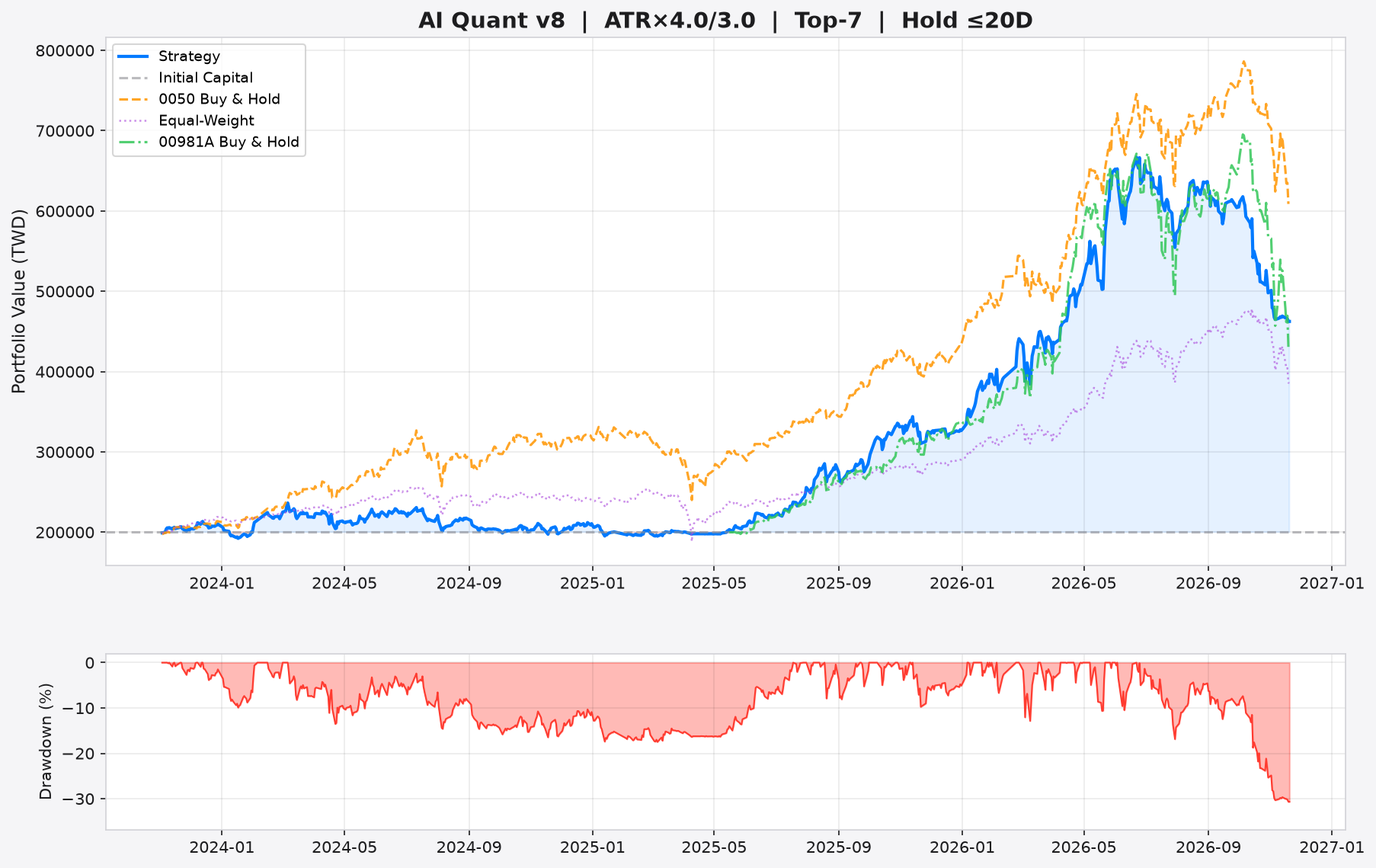
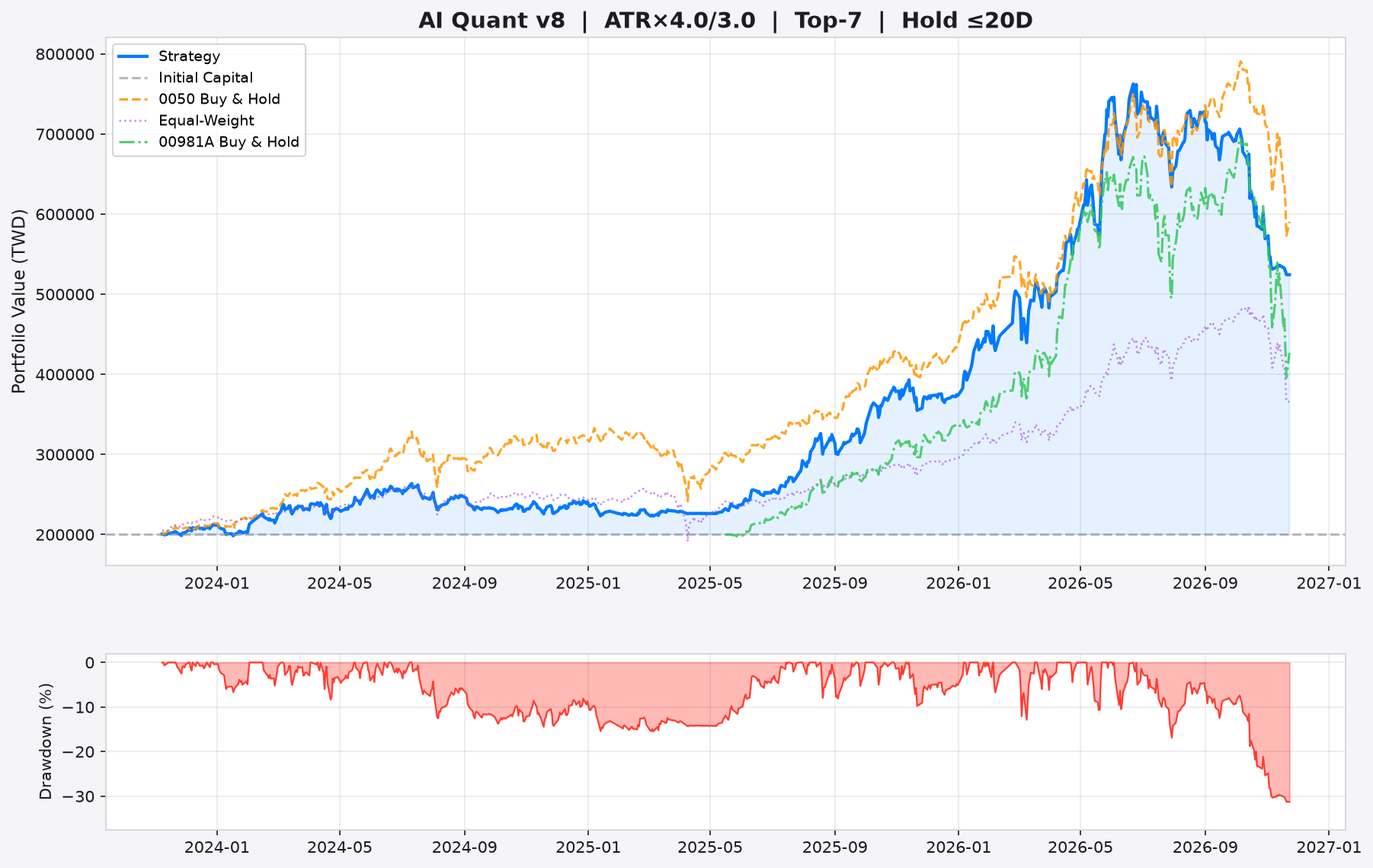
📊 AI Report v8.5 + Paper Trading (2026-11-23)

diff --git a/stock_report.html b/stock_report.html
@@ -3,7 +3,7 @@
 <head>
     <meta charset="utf-8">
     <meta name="viewport" content="width=device-width, initial-scale=1.0">
-    <title>AI 台股量化交易 v8.5 — 2026-11-20</title>
+    <title>AI 台股量化交易 v8.5 — 2026-11-23</title>
     <meta name="description" content="AI 驅動的台股量化交易系統 v8.5，完整風險報告、Benchmark 對比、OCO 智慧掛單建議">
     <script>
         (function() {
@@ -292,7 +292,7 @@
 
     <h1>🎯 AI 台股量化交易 v8.5</h1>
     <p class="subtitle">
-        Event-Driven System &nbsp;|&nbsp; 報表日期: 2026-11-20 &nbsp;|&nbsp;
+        Event-Driven System &nbsp;|&nbsp; 報表日期: 2026-11-23 &nbsp;|&nbsp;
         <span class="config-badge">🛡 ATR×4.0/3.0</span>
         <span class="config-badge">🎯 Top-7</span>
         <span class="config-badge">⏱ 最長 20 天</span>
@@ -303,47 +303,47 @@
     <div class="stats">
         <div class="stat-card">
             <div class="label">策略總報酬率</div>
-            <div class="value" style="color:#00ff00;">+131.2%</div>
+            <div class="value" style="color:#00ff00;">+162.2%</div>
         </div>
         <div class="stat-card">
             <div class="label">年化報酬率</div>
-            <div class="value" style="color:#00ff00;">+33.1%</div>
+            <div class="value" style="color:#00ff00;">+39.0%</div>
         </div>
         <div class="stat-card">
             <div class="label">年化波動率</div>
-            <div class="value">27.3%</div>
+            <div class="value">27.2%</div>
         </div>
         <div class="stat-card risk">
             <div class="label">Sharpe Ratio</div>
-            <div class="value" style="color:#00ff00;">1.19</div>
+            <div class="value" style="color:#00ff00;">1.34</div>
         </div>
         <div class="stat-card risk">
             <div class="label">Sortino Ratio</div>
-            <div class="value">1.60</div>
+            <div class="value">1.90</div>
         </div>
         <div class="stat-card risk">
             <div class="label">最大回撤</div>
-            <div class="value" style="color:#ff4444;">-30.7%</div>
+            <div class="value" style="color:#ff4444;">-31.2%</div>
         </div>
         <div class="stat-card risk">
             <div class="label">Calmar Ratio</div>
-            <div class="value">1.08</div>
+            <div class="value">1.25</div>
         </div>
         <div class="stat-card">
             <div class="label">完成交易數</div>
-            <div class="value">567</div>
+            <div class="value">564</div>
         </div>
         <div class="stat-card">
             <div class="label">勝率</div>
-            <div class="value" style="color:#00ff00;">51.9%</div>
+            <div class="value" style="color:#00ff00;">51.6%</div>
         </div>
         <div class="stat-card">
             <div class="label">Profit Factor</div>
-            <div class="value">1.40</div>
+            <div class="value">1.44</div>
         </div>
         <div class="stat-card">
             <div class="label">平均報酬/筆</div>
-            <div class="value">+1.93%</div>
+            <div class="value">+2.07%</div>
         </div>
         <div class="stat-card">
             <div class="label">平均持有天數</div>
@@ -370,17 +370,14 @@
             </tr>
         </thead>
         <tbody>
-<tr><td>2618</td><td>3.98</td><td>46.4</td><td><span style="color:#00ff00; font-weight:bold;">🟢 建議買進 #1</span></td><td><b>停利:</b> <span style="color:#00ff00">53.4</span> (+15.0%) <br><b>停損:</b> <span style="color:#ff4444">42.7</span> (-8.0%) <br><b>最晚出場:</b> 2026-12-18</td><td><span style="font-size:0.72rem; color:#888;">歷史 <b>5</b>筆 | 勝率 <b style="color:#ff4444">40%</b> | 均報酬 <b style="color:#ff4444">-2.0%</b></span></td><td><span style="font-size:0.78rem;">🟡 小買<br><span style="color:#ffab00; font-weight:bold;">+1.1%</span></span></td><td><span style="font-size:0.78rem;">⚪ 中性</span></td></tr>
-<tr><td>2412</td><td>3.95</td><td>166.0</td><td><span style="color:#00ff00; font-weight:bold;">🟢 建議買進 #2</span></td><td><b>停利:</b> <span style="color:#00ff00">190.9</span> (+15.0%) <br><b>停損:</b> <span style="color:#ff4444">152.7</span> (-8.0%) <br><b>最晚出場:</b> 2026-12-18</td><td><span style="font-size:0.72rem; color:#888;">歷史 <b>3</b>筆 | 勝率 <b style="color:#00ff00">100%</b> | 均報酬 <b style="color:#00ff00">+3.1%</b></span></td><td><span style="font-size:0.78rem;">🟡 小買<br><span style="color:#ffab00; font-weight:bold;">+1.1%</span></span></td><td><span style="font-size:0.78rem;">⚪ 中性</span></td></tr>
-<tr><td>2891</td><td>3.75</td><td>73.1</td><td><span style="color:#00ff00; font-weight:bold;">🟢 建議買進 #3</span></td><td><b>停利:</b> <span style="color:#00ff00">84.1</span> (+15.0%) <br><b>停損:</b> <span style="color:#ff4444">67.3</span> (-8.0%) <br><b>最晚出場:</b> 2026-12-18</td><td><span style="font-size:0.72rem; color:#888;">歷史 <b>4</b>筆 | 勝率 <b style="color:#00ff00">75%</b> | 均報酬 <b style="color:#ff4444">-0.2%</b></span></td><td><span style="font-size:0.78rem;">⚪ 無資料<br><span style="color:#888; font-weight:bold;">+0.0%</span></span></td><td><span style="font-size:0.78rem;">⚪ 中性</span></td></tr>
-<tr><td>2886</td><td>3.72</td><td>53.4</td><td><span style="color:#00ff00; font-weight:bold;">🟢 建議買進 #4</span></td><td><b>停利:</b> <span style="color:#00ff00">61.4</span> (+15.0%) <br><b>停損:</b> <span style="color:#ff4444">49.1</span> (-8.0%) <br><b>最晚出場:</b> 2026-12-18</td><td><span style="font-size:0.72rem; color:#555;">歷史資料不足</span></td><td><span style="font-size:0.78rem;">⚪ 無資料<br><span style="color:#888; font-weight:bold;">+0.0%</span></span></td><td><span style="font-size:0.78rem;">⚪ 中性</span></td></tr>
-<tr><td>3045</td><td>3.63</td><td>127.5</td><td><span style="color:#00ff00; font-weight:bold;">🟢 建議買進 #5</span></td><td><b>停利:</b> <span style="color:#00ff00">146.6</span> (+15.0%) <br><b>停損:</b> <span style="color:#ff4444">117.3</span> (-8.0%) <br><b>最晚出場:</b> 2026-12-18</td><td><span style="font-size:0.72rem; color:#888;">歷史 <b>3</b>筆 | 勝率 <b style="color:#ff4444">33%</b> | 均報酬 <b style="color:#ff4444">-0.1%</b></span></td><td><span style="font-size:0.78rem;">🟡 小買<br><span style="color:#ffab00; font-weight:bold;">+0.7%</span></span></td><td><span style="font-size:0.78rem;">⚪ 中性</span></td></tr>
-<tr><td>2892</td><td>3.52</td><td>40.2</td><td><span style="color:#00ff00; font-weight:bold;">🟢 建議買進 #6</span></td><td><b>停利:</b> <span style="color:#00ff00">46.2</span> (+15.0%) <br><b>停損:</b> <span style="color:#ff4444">36.9</span> (-8.0%) <br><b>最晚出場:</b> 2026-12-18</td><td><span style="font-size:0.72rem; color:#555;">歷史資料不足</span></td><td><span style="font-size:0.78rem;">🟡 小買<br><span style="color:#ffab00; font-weight:bold;">+0.7%</span></span></td><td><span style="font-size:0.78rem;">⚪ 中性</span></td></tr>
-<tr style="opacity:0.4"><td>6446</td><td>3.73</td><td>1205.0</td><td><span style="color:#aaaaaa">⚪ 觀望 (低於 MA)</span></td><td>-</td><td>-</td><td style="color:#555">-</td><td style="color:#555">-</td></tr>
-<tr style="opacity:0.4"><td>3661</td><td>3.70</td><td>3600.0</td><td><span style="color:#aaaaaa">⚪ 觀望 (低於 MA)</span></td><td>-</td><td>-</td><td style="color:#555">-</td><td style="color:#555">-</td></tr>
-<tr style="opacity:0.4"><td>2603</td><td>3.55</td><td>247.0</td><td><span style="color:#aaaaaa">⚪ 觀望 (低於 MA)</span></td><td>-</td><td>-</td><td style="color:#555">-</td><td style="color:#555">-</td></tr>
-<tr style="opacity:0.4"><td>2379</td><td>3.43</td><td>726.0</td><td><span style="color:#aaaaaa">⚪ 觀望 (低於 MA)</span></td><td>-</td><td>-</td><td style="color:#555">-</td><td style="color:#555">-</td></tr>
-<tr style="opacity:0.4"><td>2881</td><td>3.37</td><td>148.0</td><td><span style="color:#aaaaaa">⚪ 觀望 (低於 MA)</span></td><td>-</td><td>-</td><td style="color:#555">-</td><td style="color:#555">-</td></tr>
+<tr><td>2618</td><td>3.98</td><td>44.7</td><td><span style="color:#00ff00; font-weight:bold;">🟢 建議買進 #1</span></td><td><b>停利:</b> <span style="color:#00ff00">51.3</span> (+15.0%) <br><b>停損:</b> <span style="color:#ff4444">41.1</span> (-8.0%) <br><b>最晚出場:</b> 2026-12-21</td><td><span style="font-size:0.72rem; color:#888;">歷史 <b>4</b>筆 | 勝率 <b style="color:#ff4444">25%</b> | 均報酬 <b style="color:#ff4444">-4.6%</b></span></td><td><span style="font-size:0.78rem;">🟡 小買<br><span style="color:#ffab00; font-weight:bold;">+1.1%</span></span></td><td><span style="font-size:0.78rem;">⚪ 中性</span></td></tr>
+<tr><td>2412</td><td>3.95</td><td>162.5</td><td><span style="color:#00ff00; font-weight:bold;">🟢 建議買進 #2</span></td><td><b>停利:</b> <span style="color:#00ff00">186.9</span> (+15.0%) <br><b>停損:</b> <span style="color:#ff4444">149.5</span> (-8.0%) <br><b>最晚出場:</b> 2026-12-21</td><td><span style="font-size:0.72rem; color:#888;">歷史 <b>3</b>筆 | 勝率 <b style="color:#00ff00">100%</b> | 均報酬 <b style="color:#00ff00">+3.1%</b></span></td><td><span style="font-size:0.78rem;">🟡 小買<br><span style="color:#ffab00; font-weight:bold;">+1.1%</span></span></td><td><span style="font-size:0.78rem;">⚪ 中性</span></td></tr>
+<tr><td>2886</td><td>3.82</td><td>51.8</td><td><span style="color:#00ff00; font-weight:bold;">🟢 建議買進 #3</span></td><td><b>停利:</b> <span style="color:#00ff00">59.6</span> (+15.0%) <br><b>停損:</b> <span style="color:#ff4444">47.7</span> (-8.0%) <br><b>最晚出場:</b> 2026-12-21</td><td><span style="font-size:0.72rem; color:#555;">歷史資料不足</span></td><td><span style="font-size:0.78rem;">⚪ 無資料<br><span style="color:#888; font-weight:bold;">+0.0%</span></span></td><td><span style="font-size:0.78rem;">⚪ 中性</span></td></tr>
+<tr style="opacity:0.4"><td>6446</td><td>3.75</td><td>1100.0</td><td><span style="color:#aaaaaa">⚪ 觀望 (低於 MA)</span></td><td>-</td><td>-</td><td style="color:#555">-</td><td style="color:#555">-</td></tr>
+<tr style="opacity:0.4"><td>3045</td><td>3.70</td><td>123.0</td><td><span style="color:#aaaaaa">⚪ 觀望 (低於 MA)</span></td><td>-</td><td>-</td><td style="color:#555">-</td><td style="color:#555">-</td></tr>
+<tr style="opacity:0.4"><td>2891</td><td>3.63</td><td>68.0</td><td><span style="color:#aaaaaa">⚪ 觀望 (低於 MA)</span></td><td>-</td><td>-</td><td style="color:#555">-</td><td style="color:#555">-</td></tr>
+<tr style="opacity:0.4"><td>3661</td><td>3.63</td><td>3240.0</td><td><span style="color:#aaaaaa">⚪ 觀望 (低於 MA)</span></td><td>-</td><td>-</td><td style="color:#555">-</td><td style="color:#555">-</td></tr>
+<tr style="opacity:0.4"><td>2603</td><td>3.55</td><td>233.0</td><td><span style="color:#aaaaaa">⚪ 觀望 (低於 MA)</span></td><td>-</td><td>-</td><td style="color:#555">-</td><td style="color:#555">-</td></tr>
 
         </tbody>
     </table>
@@ -455,7 +452,7 @@
     <div class="stats">
         <div class="stat-card benchmark">
             <div class="label">0050 年化報酬</div>
-            <div class="value">+42.1%</div>
+            <div class="value">+40.8%</div>
         </div>
         <div class="stat-card benchmark">
             <div class="label">0050 最大回撤</div>
@@ -463,30 +460,30 @@
         </div>
         <div class="stat-card benchmark">
             <div class="label">0050 Sharpe</div>
-            <div class="value">1.47</div>
+            <div class="value">1.42</div>
         </div>
         <div class="stat-card" style="border-left-color:#ff4444">
             <div class="label">超額年化報酬 (α)</div>
-            <div class="value" style="color:#ff4444">-9.0%</div>
+            <div class="value" style="color:#ff4444">-1.7%</div>
         </div>
     </div>
 
     <div class="stats">
         <div class="stat-card benchmark">
             <div class="label">00981A 年化報酬</div>
-            <div class="value">+68.4%</div>
+            <div class="value">+66.9%</div>
         </div>
         <div class="stat-card benchmark">
             <div class="label">00981A 最大回撤</div>
-            <div class="value">-38.0%</div>
+            <div class="value">-43.1%</div>
         </div>
         <div class="stat-card benchmark">
             <div class="label">00981A Sharpe</div>
-            <div class="value">1.52</div>
+            <div class="value">1.47</div>
         </div>
         <div class="stat-card" style="border-left-color:#00ff00">
             <div class="label">超額 vs 00981A (共存期)</div>
-            <div class="value" style="color:#00ff00">+12.1%</div>
+            <div class="value" style="color:#00ff00">+12.2%</div>
         </div>
     </div>
     <img src="backtest_chart.png" alt="AI Quantitative Backtest Equity Curve with Benchmark">
@@ -501,19 +498,19 @@
         </div>
         <div class="stat-card benchmark">
             <div class="label">0050 近 5 日</div>
-            <div class="value" style="color:#ff4444">-12.0%</div>
+            <div class="value" style="color:#ff4444">-7.4%</div>
         </div>
         <div class="stat-card benchmark">
             <div class="label">0050 近 20 日</div>
-            <div class="value" style="color:#ff4444">-15.6%</div>
+            <div class="value" style="color:#ff4444">-18.4%</div>
         </div>
         <div class="stat-card benchmark">
             <div class="label">0050 近 60 日</div>
-            <div class="value" style="color:#ff4444">-13.1%</div>
+            <div class="value" style="color:#ff4444">-17.8%</div>
         </div>
         <div class="stat-card risk">
             <div class="label">市場波動率 (20D)</div>
-            <div class="value">44.8%</div>
+            <div class="value">50.9%</div>
         </div>
     </div>
 
@@ -523,22 +520,22 @@
     <div class="stats">
         <div class="stat-card risk">
             <div class="label">目前回撤</div>
-            <div class="value" style="color:#ff4444">-30.7%</div>
+            <div class="value" style="color:#ff4444">-31.2%</div>
         </div>
         <div class="stat-card">
             <div class="label">權益最高點</div>
-            <div class="value">667,041</div>
+            <div class="value">762,566</div>
         </div>
         <div class="stat-card">
             <div class="label">歷史回撤次數</div>
-            <div class="value">24</div>
+            <div class="value">35</div>
         </div>
     </div>
     <table>
         <thead><tr><th>#</th><th>開始日</th><th>恢復日</th><th>最大深度</th><th>持續天數</th></tr></thead>
         <tbody>
-<tr><td>#1</td><td>2026-06-26</td><td>2026-11-20</td><td style="color:#ff4444; font-weight:bold">-30.7%</td><td>147 天</td></tr>
-<tr><td>#2</td><td>2024-03-07</td><td>2025-07-18</td><td style="color:#ff4444; font-weight:bold">-17.5%</td><td>498 天</td></tr>
+<tr><td>#1</td><td>2026-06-26</td><td>2026-11-23</td><td style="color:#ff4444; font-weight:bold">-31.2%</td><td>150 天</td></tr>
+<tr><td>#2</td><td>2024-07-12</td><td>2025-07-15</td><td style="color:#ff4444; font-weight:bold">-15.5%</td><td>368 天</td></tr>
 <tr><td>#3</td><td>2026-03-02</td><td>2026-03-17</td><td style="color:#ff4444; font-weight:bold">-12.9%</td><td>15 天</td></tr>
 <tr><td>#4</td><td>2026-05-08</td><td>2026-05-22</td><td style="color:#ff4444; font-weight:bold">-10.7%</td><td>14 天</td></tr>
 <tr><td>#5</td><td>2026-06-04</td><td>2026-06-18</td><td style="color:#ff4444; font-weight:bold">-10.5%</td><td>14 天</td></tr>
@@ -552,15 +549,15 @@
     <div class="stats">
         <div class="stat-card" style="border-left-color:#ff4444">
             <div class="label">近 60 日 Sharpe</div>
-            <div class="value" style="color:#ff4444">-4.06</div>
+            <div class="value" style="color:#ff4444">-4.33</div>
         </div>
         <div class="stat-card">
             <div class="label">歷史平均 Sharpe</div>
-            <div class="value">1.37</div>
+            <div class="value">1.56</div>
         </div>
         <div class="stat-card risk">
             <div class="label">歷史最低 Sharpe</div>
-            <div class="value">-4.26</div>
+            <div class="value">-4.33</div>
         </div>
         <div class="stat-card">
             <div class="label">歷史最高 Sharpe</div>
@@ -582,7 +579,7 @@
         </div>
         <div class="stat-card">
             <div class="label">近 5 筆走勢</div>
-            <div class="value" style="font-size:1.2rem">🔴 🔴 🔴 🟢 🔴 </div>
+            <div class="value" style="font-size:1.2rem">🔴 🟢 🔴 🔴 🔴 </div>
         </div>
     </div>
 
@@ -590,9 +587,9 @@
     <table>
         <thead><tr><th>出場原因</th><th>次數</th><th>平均報酬</th></tr></thead>
         <tbody>
-<tr><td>⚪ 時間到期</td><td>204 筆</td><td style="color:#ff4444">-0.62%</td></tr>
-<tr><td>🟢 停利</td><td>201 筆</td><td style="color:#00ff00">+16.50%</td></tr>
-<tr><td>🔴 停損</td><td>162 筆</td><td style="color:#ff4444">-12.94%</td></tr>
+<tr><td>🟢 停利</td><td>203 筆</td><td style="color:#00ff00">+16.53%</td></tr>
+<tr><td>⚪ 時間到期</td><td>202 筆</td><td style="color:#ff4444">-0.57%</td></tr>
+<tr><td>🔴 停損</td><td>159 筆</td><td style="color:#ff4444">-13.02%</td></tr>
 
         </tbody>
     </table>
@@ -602,14 +599,14 @@
 
     <table>
         <thead><tr><th>報酬區間</th><th>筆數</th><th>佔比</th><th>分布</th></tr></thead>
-        <tbody><tr><td>< -15%</td><td>40</td><td>7.1%</td><td><div style="background:#ff4444; width:21.164021164021165%; height:14px; border-radius:3px; opacity:0.6"></div></td></tr>
-<tr><td>-15~-10%</td><td>96</td><td>16.9%</td><td><div style="background:#ff4444; width:50.79365079365079%; height:14px; border-radius:3px; opacity:0.6"></div></td></tr>
-<tr><td>-10~-5%</td><td>82</td><td>14.5%</td><td><div style="background:#ff4444; width:43.38624338624338%; height:14px; border-radius:3px; opacity:0.6"></div></td></tr>
-<tr><td>-5~0%</td><td>55</td><td>9.7%</td><td><div style="background:#ff4444; width:29.1005291005291%; height:14px; border-radius:3px; opacity:0.6"></div></td></tr>
-<tr><td>0~5%</td><td>57</td><td>10.1%</td><td><div style="background:#00ff00; width:30.158730158730158%; height:14px; border-radius:3px; opacity:0.6"></div></td></tr>
-<tr><td>5~10%</td><td>37</td><td>6.5%</td><td><div style="background:#00ff00; width:19.576719576719576%; height:14px; border-radius:3px; opacity:0.6"></div></td></tr>
-<tr><td>10~20%</td><td>151</td><td>26.6%</td><td><div style="background:#00ff00; width:79.89417989417989%; height:14px; border-radius:3px; opacity:0.6"></div></td></tr>
-<tr><td>> 20%</td><td>49</td><td>8.6%</td><td><div style="background:#00ff00; width:25.925925925925924%; height:14px; border-radius:3px; opacity:0.6"></div></td></tr>
+        <tbody><tr><td>< -15%</td><td>43</td><td>7.6%</td><td><div style="background:#ff4444; width:22.872340425531917%; height:14px; border-radius:3px; opacity:0.6"></div></td></tr>
+<tr><td>-15~-10%</td><td>88</td><td>15.6%</td><td><div style="background:#ff4444; width:46.808510638297875%; height:14px; border-radius:3px; opacity:0.6"></div></td></tr>
+<tr><td>-10~-5%</td><td>80</td><td>14.2%</td><td><div style="background:#ff4444; width:42.55319148936171%; height:14px; border-radius:3px; opacity:0.6"></div></td></tr>
+<tr><td>-5~0%</td><td>62</td><td>11.0%</td><td><div style="background:#ff4444; width:32.97872340425532%; height:14px; border-radius:3px; opacity:0.6"></div></td></tr>
+<tr><td>0~5%</td><td>53</td><td>9.4%</td><td><div style="background:#00ff00; width:28.191489361702125%; height:14px; border-radius:3px; opacity:0.6"></div></td></tr>
+<tr><td>5~10%</td><td>35</td><td>6.2%</td><td><div style="background:#00ff00; width:18.617021276595743%; height:14px; border-radius:3px; opacity:0.6"></div></td></tr>
+<tr><td>10~20%</td><td>153</td><td>27.1%</td><td><div style="background:#00ff00; width:81.38297872340425%; height:14px; border-radius:3px; opacity:0.6"></div></td></tr>
+<tr><td>> 20%</td><td>50</td><td>8.9%</td><td><div style="background:#00ff00; width:26.595744680851062%; height:14px; border-radius:3px; opacity:0.6"></div></td></tr>
 </tbody>
     </table>
 
@@ -619,25 +616,25 @@
     <h3 style="color:#00e5ff; margin-top:16px">🏆 Top 10 貢獻股</h3>
     <table>
         <thead><tr><th>股票</th><th>交易數</th><th>勝率</th><th>平均報酬</th><th>總貢獻</th></tr></thead>
-        <tbody><tr><td><b>3017</b></td><td>19</td><td style="color:#00ff00">84%</td><td style="color:#00ff00">+9.7%</td><td style="color:#00ff00; font-weight:bold">+184.2%</td></tr>
-<tr><td><b>2383</b></td><td>15</td><td style="color:#00ff00">80%</td><td style="color:#00ff00">+12.1%</td><td style="color:#00ff00; font-weight:bold">+182.0%</td></tr>
+        <tbody><tr><td><b>2383</b></td><td>15</td><td style="color:#00ff00">80%</td><td style="color:#00ff00">+12.1%</td><td style="color:#00ff00; font-weight:bold">+180.8%</td></tr>
 <tr><td><b>2344</b></td><td>14</td><td style="color:#00ff00">79%</td><td style="color:#00ff00">+11.1%</td><td style="color:#00ff00; font-weight:bold">+155.0%</td></tr>
-<tr><td><b>2408</b></td><td>17</td><td style="color:#00ff00">76%</td><td style="color:#00ff00">+8.6%</td><td style="color:#00ff00; font-weight:bold">+146.7%</td></tr>
-<tr><td><b>6770</b></td><td>10</td><td style="color:#00ff00">80%</td><td style="color:#00ff00">+10.7%</td><td style="color:#00ff00; font-weight:bold">+106.5%</td></tr>
+<tr><td><b>3017</b></td><td>17</td><td style="color:#00ff00">82%</td><td style="color:#00ff00">+9.1%</td><td style="color:#00ff00; font-weight:bold">+153.9%</td></tr>
+<tr><td><b>2408</b></td><td>17</td><td style="color:#00ff00">71%</td><td style="color:#00ff00">+8.5%</td><td style="color:#00ff00; font-weight:bold">+143.8%</td></tr>
+<tr><td><b>6770</b></td><td>11</td><td style="color:#00ff00">82%</td><td style="color:#00ff00">+9.7%</td><td style="color:#00ff00; font-weight:bold">+106.6%</td></tr>
 <tr><td><b>1303</b></td><td>14</td><td style="color:#00ff00">71%</td><td style="color:#00ff00">+6.4%</td><td style="color:#00ff00; font-weight:bold">+88.9%</td></tr>
-<tr><td><b>1519</b></td><td>16</td><td style="color:#00ff00">56%</td><td style="color:#00ff00">+5.5%</td><td style="color:#00ff00; font-weight:bold">+87.4%</td></tr>
-<tr><td><b>2327</b></td><td>9</td><td style="color:#00ff00">67%</td><td style="color:#00ff00">+8.4%</td><td style="color:#00ff00; font-weight:bold">+75.6%</td></tr>
-<tr><td><b>5274O</b></td><td>15</td><td style="color:#00ff00">80%</td><td style="color:#00ff00">+5.0%</td><td style="color:#00ff00; font-weight:bold">+74.3%</td></tr>
+<tr><td><b>2327</b></td><td>10</td><td style="color:#00ff00">70%</td><td style="color:#00ff00">+8.5%</td><td style="color:#00ff00; font-weight:bold">+84.9%</td></tr>
+<tr><td><b>1519</b></td><td>15</td><td style="color:#00ff00">53%</td><td style="color:#00ff00">+4.5%</td><td style="color:#00ff00; font-weight:bold">+67.8%</td></tr>
 <tr><td><b>3037</b></td><td>12</td><td style="color:#00ff00">58%</td><td style="color:#00ff00">+5.6%</td><td style="color:#00ff00; font-weight:bold">+66.9%</td></tr>
+<tr><td><b>1504</b></td><td>8</td><td style="color:#00ff00">88%</td><td style="color:#00ff00">+7.5%</td><td style="color:#00ff00; font-weight:bold">+60.2%</td></tr>
 </tbody>
     </table>
     <h3 style="color:#ff4444; margin-top:16px">📉 Bottom 5 虧損股</h3>
     <table>
         <thead><tr><th>股票</th><th>交易數</th><th>勝率</th><th>平均報酬</th><th>總貢獻</th></tr></thead>
-        <tbody><tr style="opacity:0.7"><td><b>2382</b></td><td>3</td><td style="color:#ff4444">0%</td><td style="color:#ff4444">-10.6%</td><td style="color:#ff4444; font-weight:bold">-31.8%</td></tr>
+        <tbody><tr style="opacity:0.7"><td><b>2634</b></td><td>6</td><td style="color:#ff4444">33%</td><td style="color:#ff4444">-5.1%</td><td style="color:#ff4444; font-weight:bold">-30.9%</td></tr>
+<tr style="opacity:0.7"><td><b>2605</b></td><td>3</td><td style="color:#ff4444">0%</td><td style="color:#ff4444">-10.7%</td><td style="color:#ff4444; font-weight:bold">-32.1%</td></tr>
 <tr style="opacity:0.7"><td><b>1301</b></td><td>3</td><td style="color:#ff4444">0%</td><td style="color:#ff4444">-10.8%</td><td style="color:#ff4444; font-weight:bold">-32.6%</td></tr>
-<tr style="opacity:0.7"><td><b>2603</b></td><td>11</td><td style="color:#ff4444">27%</td><td style="color:#ff4444">-3.5%</td><td style="color:#ff4444; font-weight:bold">-38.6%</td></tr>
-<tr style="opacity:0.7"><td><b>2605</b></td><td>3</td><td style="color:#ff4444">0%</td><td style="color:#ff4444">-14.3%</td><td style="color:#ff4444; font-weight:bold">-42.9%</td></tr>
+<tr style="opacity:0.7"><td><b>2603</b></td><td>11</td><td style="color:#ff4444">27%</td><td style="color:#ff4444">-3.9%</td><td style="color:#ff4444; font-weight:bold">-42.9%</td></tr>
 <tr style="opacity:0.7"><td><b>1326</b></td><td>6</td><td style="color:#ff4444">0%</td><td style="color:#ff4444">-9.8%</td><td style="color:#ff4444; font-weight:bold">-59.0%</td></tr>
 </tbody>
     </table>
@@ -652,6 +649,8 @@
             </tr>
         </thead>
         <tbody>
+<tr><td>1101</td><td>2026-11-09</td><td>2026-11-20</td><td>27.0</td><td>24.5</td><td>🔴 停損</td><td>9天</td><td style="color:#ff4444; font-weight:bold;">-9.8%</td></tr>
+<tr><td>3045</td><td>2026-11-04</td><td>2026-11-20</td><td>133.1</td><td>125.3</td><td>🔴 停損</td><td>12天</td><td style="color:#ff4444; font-weight:bold;">-6.6%</td></tr>
 <tr><td>6446</td><td>2026-11-10</td><td>2026-11-19</td><td>1376.4</td><td>1186.6</td><td>🔴 停損</td><td>7天</td><td style="color:#ff4444; font-weight:bold;">-14.4%</td></tr>
 <tr><td>2412</td><td>2026-11-04</td><td>2026-11-19</td><td>159.7</td><td>170.4</td><td>🟢 停利</td><td>11天</td><td style="color:#00ff00; font-weight:bold;">+6.0%</td></tr>
 <tr><td>2884</td><td>2026-11-06</td><td>2026-11-18</td><td>46.5</td><td>42.9</td><td>🔴 停損</td><td>8天</td><td style="color:#ff4444; font-weight:bold;">-8.2%</td></tr>
@@ -670,8 +669,6 @@
 <tr><td>2368</td><td>2026-10-15</td><td>2026-11-03</td><td>1191.2</td><td>964.7</td><td>🔴 停損</td><td>12天</td><td style="color:#ff4444; font-weight:bold;">-19.6%</td></tr>
 <tr><td>1301</td><td>2026-10-13</td><td>2026-11-03</td><td>78.1</td><td>69.6</td><td>🔴 停損</td><td>14天</td><td style="color:#ff4444; font-weight:bold;">-11.5%</td></tr>
 <tr><td>3044</td><td>2026-10-19</td><td>2026-10-30</td><td>565.6</td><td>503.3</td><td>🔴 停損</td><td>8天</td><td style="color:#ff4444; font-weight:bold;">-11.6%</td></tr>
-<tr><td>3707O</td><td>2026-10-15</td><td>2026-10-30</td><td>78.7</td><td>64.1</td><td>🔴 停損</td><td>10天</td><td style="color:#ff4444; font-weight:bold;">-19.1%</td></tr>
-<tr><td>6505</td><td>2026-10-15</td><td>2026-10-29</td><td>118.1</td><td>100.3</td><td>🔴 停損</td><td>9天</td><td style="color:#ff4444; font-weight:bold;">-15.7%</td></tr>
 
         </tbody>
     </table>
@@ -681,14 +678,14 @@
     <table style="max-width:400px">
         <thead><tr><th>月份</th><th>月報酬</th></tr></thead>
         <tbody>
-<tr style="background:rgba(0,255,0,0.10)"><td>2023-12</td><td style="color:#00ff00; font-weight:bold">+3.2%</td></tr>
-<tr style="background:rgba(255,68,68,0.14)"><td>2024-01</td><td style="color:#ff4444; font-weight:bold">-4.7%</td></tr>
-<tr style="background:rgba(0,255,0,0.30)"><td>2024-02</td><td style="color:#00ff00; font-weight:bold">+11.3%</td></tr>
-<tr style="background:rgba(255,68,68,0.04)"><td>2024-03</td><td style="color:#ff4444; font-weight:bold">-1.4%</td></tr>
-<tr style="background:rgba(255,68,68,0.09)"><td>2024-04</td><td style="color:#ff4444; font-weight:bold">-3.0%</td></tr>
-<tr style="background:rgba(0,255,0,0.10)"><td>2024-05</td><td style="color:#00ff00; font-weight:bold">+3.4%</td></tr>
-<tr style="background:rgba(0,255,0,0.07)"><td>2024-06</td><td style="color:#00ff00; font-weight:bold">+2.4%</td></tr>
-<tr style="background:rgba(255,68,68,0.11)"><td>2024-07</td><td style="color:#ff4444; font-weight:bold">-3.6%</td></tr>
+<tr style="background:rgba(0,255,0,0.15)"><td>2023-12</td><td style="color:#00ff00; font-weight:bold">+5.0%</td></tr>
+<tr style="background:rgba(255,68,68,0.14)"><td>2024-01</td><td style="color:#ff4444; font-weight:bold">-4.6%</td></tr>
+<tr style="background:rgba(0,255,0,0.27)"><td>2024-02</td><td style="color:#00ff00; font-weight:bold">+9.1%</td></tr>
+<tr style="background:rgba(0,255,0,0.16)"><td>2024-03</td><td style="color:#00ff00; font-weight:bold">+5.4%</td></tr>
+<tr style="background:rgba(255,68,68,0.02)"><td>2024-04</td><td style="color:#ff4444; font-weight:bold">-0.6%</td></tr>
+<tr style="background:rgba(0,255,0,0.19)"><td>2024-05</td><td style="color:#00ff00; font-weight:bold">+6.5%</td></tr>
+<tr style="background:rgba(0,255,0,0.13)"><td>2024-06</td><td style="color:#00ff00; font-weight:bold">+4.4%</td></tr>
+<tr style="background:rgba(255,68,68,0.10)"><td>2024-07</td><td style="color:#ff4444; font-weight:bold">-3.4%</td></tr>
 <tr style="background:rgba(255,68,68,0.00)"><td>2024-08</td><td style="color:#ff4444; font-weight:bold">-0.1%</td></tr>
 <tr style="background:rgba(255,68,68,0.19)"><td>2024-09</td><td style="color:#ff4444; font-weight:bold">-6.5%</td></tr>
 <tr style="background:rgba(255,68,68,0.04)"><td>2024-10</td><td style="color:#ff4444; font-weight:bold">-1.2%</td></tr>
@@ -716,7 +713,7 @@
 <tr style="background:rgba(0,255,0,0.30)"><td>2026-08</td><td style="color:#00ff00; font-weight:bold">+11.3%</td></tr>
 <tr style="background:rgba(255,68,68,0.15)"><td>2026-09</td><td style="color:#ff4444; font-weight:bold">-4.8%</td></tr>
 <tr style="background:rgba(255,68,68,0.30)"><td>2026-10</td><td style="color:#ff4444; font-weight:bold">-17.8%</td></tr>
-<tr style="background:rgba(255,68,68,0.21)"><td>2026-11</td><td style="color:#ff4444; font-weight:bold">-7.1%</td></tr>
+<tr style="background:rgba(255,68,68,0.24)"><td>2026-11</td><td style="color:#ff4444; font-weight:bold">-7.9%</td></tr>
 
         </tbody>
     </table>

diff --git a/paper_trading.html b/paper_trading.html
@@ -3,7 +3,7 @@
 <head>
     <meta charset="utf-8">
     <meta name="viewport" content="width=device-width, initial-scale=1.0">
-    <title>Paper Trading v8.5 — 2026-11-20</title>
+    <title>Paper Trading v8.5 — 2026-11-23</title>
     <meta name="description" content="TW Stocker v8.5 Paper Trading 實時績效追蹤">
     <script src="https://cdn.jsdelivr.net/npm/chart.js@4"></script>
     <style>
@@ -92,7 +92,7 @@
     <h1>📈 Paper Trading v8.5</h1>
     <p class="subtitle">
         <span class="badge badge-live">● LIVE</span>
-        起始日 2026-04-22 | 更新 2026-11-20 | 初始資金 200,000 | 保留本金 10%，其餘投入
+        起始日 2026-04-22 | 更新 2026-11-23 | 初始資金 200,000 | 保留本金 10%，其餘投入
     </p>
 
     <div class="metrics">
@@ -106,7 +106,7 @@
         </div>
         <div class="metric">
             <div class="label">年化報酬</div>
-            <div class="value red">-23.5%</div>
+            <div class="value red">-23.3%</div>
         </div>
         <div class="metric">
             <div class="label">最大回撤</div>
@@ -432,10 +432,10 @@ const ctx = document.getElementById('equityChart').getContext('2d');
 new Chart(ctx, {
     type: 'line',
     data: {
-        labels: ["2026-04-22", "2026-04-23", "2026-04-24", "2026-04-27", "2026-04-29", "2026-04-30", "2026-05-01", "2026-05-04", "2026-05-05", "2026-05-06", "2026-05-07", "2026-05-08", "2026-05-11", "2026-05-12", "2026-05-13", "2026-05-14", "2026-05-15", "2026-05-18", "2026-05-19", "2026-05-20", "2026-05-21", "2026-05-22", "2026-05-25", "2026-05-26", "2026-05-27", "2026-05-28", "2026-05-29", "2026-06-01", "2026-06-02", "2026-06-03", "2026-06-04", "2026-06-05", "2026-06-08", "2026-06-09", "2026-06-10", "2026-06-11", "2026-06-12", "2026-06-15", "2026-06-16", "2026-06-17", "2026-06-18", "2026-06-19", "2026-06-22", "2026-06-23", "2026-06-24", "2026-06-25", "2026-06-26", "2026-06-29", "2026-06-30", "2026-07-01", "2026-07-02", "2026-07-03", "2026-07-06", "2026-07-07", "2026-07-08", "2026-07-09", "2026-07-10", "2026-07-13", "2026-07-14", "2026-07-15", "2026-07-16", "2026-07-17", "2026-07-20", "2026-07-21", "2026-07-22", "2026-07-23", "2026-07-24", "2026-07-27", "2026-07-28", "2026-07-29", "2026-07-30", "2026-07-31", "2026-08-03", "2026-08-04", "2026-08-05", "2026-08-06", "2026-08-07", "2026-08-10", "2026-08-11", "2026-08-12", "2026-08-13", "2026-08-14", "2026-08-17", "2026-08-18", "2026-08-19", "2026-08-20", "2026-08-21", "2026-08-24", "2026-08-25", "2026-08-26", "2026-08-27", "2026-08-28", "2026-08-31", "2026-09-01", "2026-09-02", "2026-09-03", "2026-09-04", "2026-09-07", "2026-09-08", "2026-09-09", "2026-09-10", "2026-09-11", "2026-09-14", "2026-09-15", "2026-09-16", "2026-09-17", "2026-09-18", "2026-09-21", "2026-09-22", "2026-09-23", "2026-09-24", "2026-09-25", "2026-09-28", "2026-09-29", "2026-09-30", "2026-10-01", "2026-10-02", "2026-10-05", "2026-10-06", "2026-10-07", "2026-10-08", "2026-10-09", "2026-10-12", "2026-10-13", "2026-10-14", "2026-10-15", "2026-10-16", "2026-10-19", "2026-10-20", "2026-10-21", "2026-10-22", "2026-10-23", "2026-10-26", "2026-10-27", "2026-10-28", "2026-10-29", "2026-10-30", "2026-11-02", "2026-11-03", "2026-11-04", "2026-11-05", "2026-11-06", "2026-11-09", "2026-11-10", "2026-11-11", "2026-11-12", "2026-11-13", "2026-11-16", "2026-11-17", "2026-11-18", "2026-11-19", "2026-11-20"],
+        labels: ["2026-04-22", "2026-04-23", "2026-04-24", "2026-04-27", "2026-04-29", "2026-04-30", "2026-05-01", "2026-05-04", "2026-05-05", "2026-05-06", "2026-05-07", "2026-05-08", "2026-05-11", "2026-05-12", "2026-05-13", "2026-05-14", "2026-05-15", "2026-05-18", "2026-05-19", "2026-05-20", "2026-05-21", "2026-05-22", "2026-05-25", "2026-05-26", "2026-05-27", "2026-05-28", "2026-05-29", "2026-06-01", "2026-06-02", "2026-06-03", "2026-06-04", "2026-06-05", "2026-06-08", "2026-06-09", "2026-06-10", "2026-06-11", "2026-06-12", "2026-06-15", "2026-06-16", "2026-06-17", "2026-06-18", "2026-06-19", "2026-06-22", "2026-06-23", "2026-06-24", "2026-06-25", "2026-06-26", "2026-06-29", "2026-06-30", "2026-07-01", "2026-07-02", "2026-07-03", "2026-07-06", "2026-07-07", "2026-07-08", "2026-07-09", "2026-07-10", "2026-07-13", "2026-07-14", "2026-07-15", "2026-07-16", "2026-07-17", "2026-07-20", "2026-07-21", "2026-07-22", "2026-07-23", "2026-07-24", "2026-07-27", "2026-07-28", "2026-07-29", "2026-07-30", "2026-07-31", "2026-08-03", "2026-08-04", "2026-08-05", "2026-08-06", "2026-08-07", "2026-08-10", "2026-08-11", "2026-08-12", "2026-08-13", "2026-08-14", "2026-08-17", "2026-08-18", "2026-08-19", "2026-08-20", "2026-08-21", "2026-08-24", "2026-08-25", "2026-08-26", "2026-08-27", "2026-08-28", "2026-08-31", "2026-09-01", "2026-09-02", "2026-09-03", "2026-09-04", "2026-09-07", "2026-09-08", "2026-09-09", "2026-09-10", "2026-09-11", "2026-09-14", "2026-09-15", "2026-09-16", "2026-09-17", "2026-09-18", "2026-09-21", "2026-09-22", "2026-09-23", "2026-09-24", "2026-09-25", "2026-09-28", "2026-09-29", "2026-09-30", "2026-10-01", "2026-10-02", "2026-10-05", "2026-10-06", "2026-10-07", "2026-10-08", "2026-10-09", "2026-10-12", "2026-10-13", "2026-10-14", "2026-10-15", "2026-10-16", "2026-10-19", "2026-10-20", "2026-10-21", "2026-10-22", "2026-10-23", "2026-10-26", "2026-10-27", "2026-10-28", "2026-10-29", "2026-10-30", "2026-11-02", "2026-11-03", "2026-11-04", "2026-11-05", "2026-11-06", "2026-11-09", "2026-11-10", "2026-11-11", "2026-11-12", "2026-11-13", "2026-11-16", "2026-11-17", "2026-11-18", "2026-11-19", "2026-11-20", "2026-11-23"],
         datasets: [{
             label: 'Paper Trading 權益',
-            data: [198952.0, 198438.0, 203189.0, 204266.0, 202703.0, 207261.0, 207261.0, 209021.0, 209122.0, 210225.0, 213939.0, 211340.0, 217936.0, 218528.0, 216129.0, 216592.0, 213700.0, 216976.0, 214891.0, 214560.0, 221605.0, 224953.0, 228551.0, 229268.0, 233947.0, 232983.0, 234110.0, 237186.0, 237898.0, 237958.0, 237613.0, 237223.0, 236533.0, 237748.0, 236788.0, 236578.0, 236863.0, 237733.0, 238003.0, 237703.0, 237493.0, 237493.0, 237645.0, 237645.0, 237645.0, 237645.0, 237645.0, 237645.0, 237645.0, 237645.0, 237645.0, 237645.0, 237645.0, 237645.0, 237645.0, 237645.0, 239822.0, 234492.0, 234312.0, 246822.0, 237846.0, 223562.0, 215192.0, 220651.0, 226371.0, 222206.0, 214222.0, 217885.0, 207788.0, 200844.0, 195950.0, 194460.0, 194460.0, 194460.0, 194460.0, 194460.0, 194460.0, 194460.0, 194460.0, 194460.0, 194460.0, 194460.0, 194460.0, 194460.0, 194460.0, 194460.0, 194460.0, 194460.0, 194460.0, 194460.0, 194460.0, 194460.0, 194460.0, 194460.0, 194460.0, 194460.0, 194460.0, 194460.0, 194460.0, 194460.0, 194460.0, 194460.0, 194460.0, 194460.0, 194460.0, 194460.0, 194460.0, 194460.0, 194460.0, 194460.0, 194460.0, 194460.0, 194460.0, 194460.0, 194460.0, 194460.0, 194460.0, 194460.0, 194460.0, 194460.0, 194460.0, 194460.0, 194460.0, 194460.0, 194460.0, 194460.0, 194460.0, 194460.0, 194460.0, 194460.0, 194460.0, 195943.0, 195943.0, 196086.0, 197311.0, 197311.0, 193280.0, 193280.0, 194499.0, 187319.0, 188027.0, 181086.0, 172243.0, 171556.0, 172096.0, 172707.0, 172366.0, 173038.0, 172537.0, 172629.0, 172354.0, 171676.0],
+            data: [198952.0, 198438.0, 203189.0, 204266.0, 202703.0, 207261.0, 207261.0, 209021.0, 209122.0, 210225.0, 213939.0, 211340.0, 217936.0, 218528.0, 216129.0, 216592.0, 213700.0, 216976.0, 214891.0, 214560.0, 221605.0, 224953.0, 228551.0, 229268.0, 233947.0, 232983.0, 234110.0, 237186.0, 237898.0, 237958.0, 237613.0, 237223.0, 236533.0, 237748.0, 236788.0, 236578.0, 236863.0, 237733.0, 238003.0, 237703.0, 237493.0, 237493.0, 237645.0, 237645.0, 237645.0, 237645.0, 237645.0, 237645.0, 237645.0, 237645.0, 237645.0, 237645.0, 237645.0, 237645.0, 237645.0, 237645.0, 239822.0, 234492.0, 234312.0, 246822.0, 237846.0, 223562.0, 215192.0, 220651.0, 226371.0, 222206.0, 214222.0, 217885.0, 207788.0, 200844.0, 195950.0, 194460.0, 194460.0, 194460.0, 194460.0, 194460.0, 194460.0, 194460.0, 194460.0, 194460.0, 194460.0, 194460.0, 194460.0, 194460.0, 194460.0, 194460.0, 194460.0, 194460.0, 194460.0, 194460.0, 194460.0, 194460.0, 194460.0, 194460.0, 194460.0, 194460.0, 194460.0, 194460.0, 194460.0, 194460.0, 194460.0, 194460.0, 194460.0, 194460.0, 194460.0, 194460.0, 194460.0, 194460.0, 194460.0, 194460.0, 194460.0, 194460.0, 194460.0, 194460.0, 194460.0, 194460.0, 194460.0, 194460.0, 194460.0, 194460.0, 194460.0, 194460.0, 194460.0, 194460.0, 194460.0, 194460.0, 194460.0, 194460.0, 194460.0, 194460.0, 194460.0, 195943.0, 195943.0, 196086.0, 197311.0, 197311.0, 193280.0, 193280.0, 194499.0, 187319.0, 188027.0, 181086.0, 172243.0, 171556.0, 172096.0, 172707.0, 172366.0, 173038.0, 172537.0, 172629.0, 172354.0, 171676.0, 171676.0],
             borderColor: '#60a5fa',
             backgroundColor: 'rgba(96, 165, 250, 0.1)',
             fill: true,
@@ -444,7 +444,7 @@ new Chart(ctx, {
             borderWidth: 2,
         }, {
             label: '初始資金',
-            data: [200000, 200000, 200000, 200000, 200000, 200000, 200000, 200000, 200000, 200000, 200000, 200000, 200000, 200000, 200000, 200000, 200000, 200000, 200000, 200000, 200000, 200000, 200000, 200000, 200000, 200000, 200000, 200000, 200000, 200000, 200000, 200000, 200000, 200000, 200000, 200000, 200000, 200000, 200000, 200000, 200000, 200000, 200000, 200000, 200000, 200000, 200000, 200000, 200000, 200000, 200000, 200000, 200000, 200000, 200000, 200000, 200000, 200000, 200000, 200000, 200000, 200000, 200000, 200000, 200000, 200000, 200000, 200000, 200000, 200000, 200000, 200000, 200000, 200000, 200000, 200000, 200000, 200000, 200000, 200000, 200000, 200000, 200000, 200000, 200000, 200000, 200000, 200000, 200000, 200000, 200000, 200000, 200000, 200000, 200000, 200000, 200000, 200000, 200000, 200000, 200000, 200000, 200000, 200000, 200000, 200000, 200000, 200000, 200000, 200000, 200000, 200000, 200000, 200000, 200000, 200000, 200000, 200000, 200000, 200000, 200000, 200000, 200000, 200000, 200000, 200000, 200000, 200000, 200000, 200000, 200000, 200000, 200000, 200000, 200000, 200000, 200000, 200000, 200000, 200000, 200000, 200000, 200000, 200000, 200000, 200000, 200000, 200000, 200000, 200000, 200000, 200000],
+            data: [200000, 200000, 200000, 200000, 200000, 200000, 200000, 200000, 200000, 200000, 200000, 200000, 200000, 200000, 200000, 200000, 200000, 200000, 200000, 200000, 200000, 200000, 200000, 200000, 200000, 200000, 200000, 200000, 200000, 200000, 200000, 200000, 200000, 200000, 200000, 200000, 200000, 200000, 200000, 200000, 200000, 200000, 200000, 200000, 200000, 200000, 200000, 200000, 200000, 200000, 200000, 200000, 200000, 200000, 200000, 200000, 200000, 200000, 200000, 200000, 200000, 200000, 200000, 200000, 200000, 200000, 200000, 200000, 200000, 200000, 200000, 200000, 200000, 200000, 200000, 200000, 200000, 200000, 200000, 200000, 200000, 200000, 200000, 200000, 200000, 200000, 200000, 200000, 200000, 200000, 200000, 200000, 200000, 200000, 200000, 200000, 200000, 200000, 200000, 200000, 200000, 200000, 200000, 200000, 200000, 200000, 200000, 200000, 200000, 200000, 200000, 200000, 200000, 200000, 200000, 200000, 200000, 200000, 200000, 200000, 200000, 200000, 200000, 200000, 200000, 200000, 200000, 200000, 200000, 200000, 200000, 200000, 200000, 200000, 200000, 200000, 200000, 200000, 200000, 200000, 200000, 200000, 200000, 200000, 200000, 200000, 200000, 200000, 200000, 200000, 200000, 200000, 200000],
             borderColor: '#475569',
             borderDash: [5, 5],
             fill: false,
